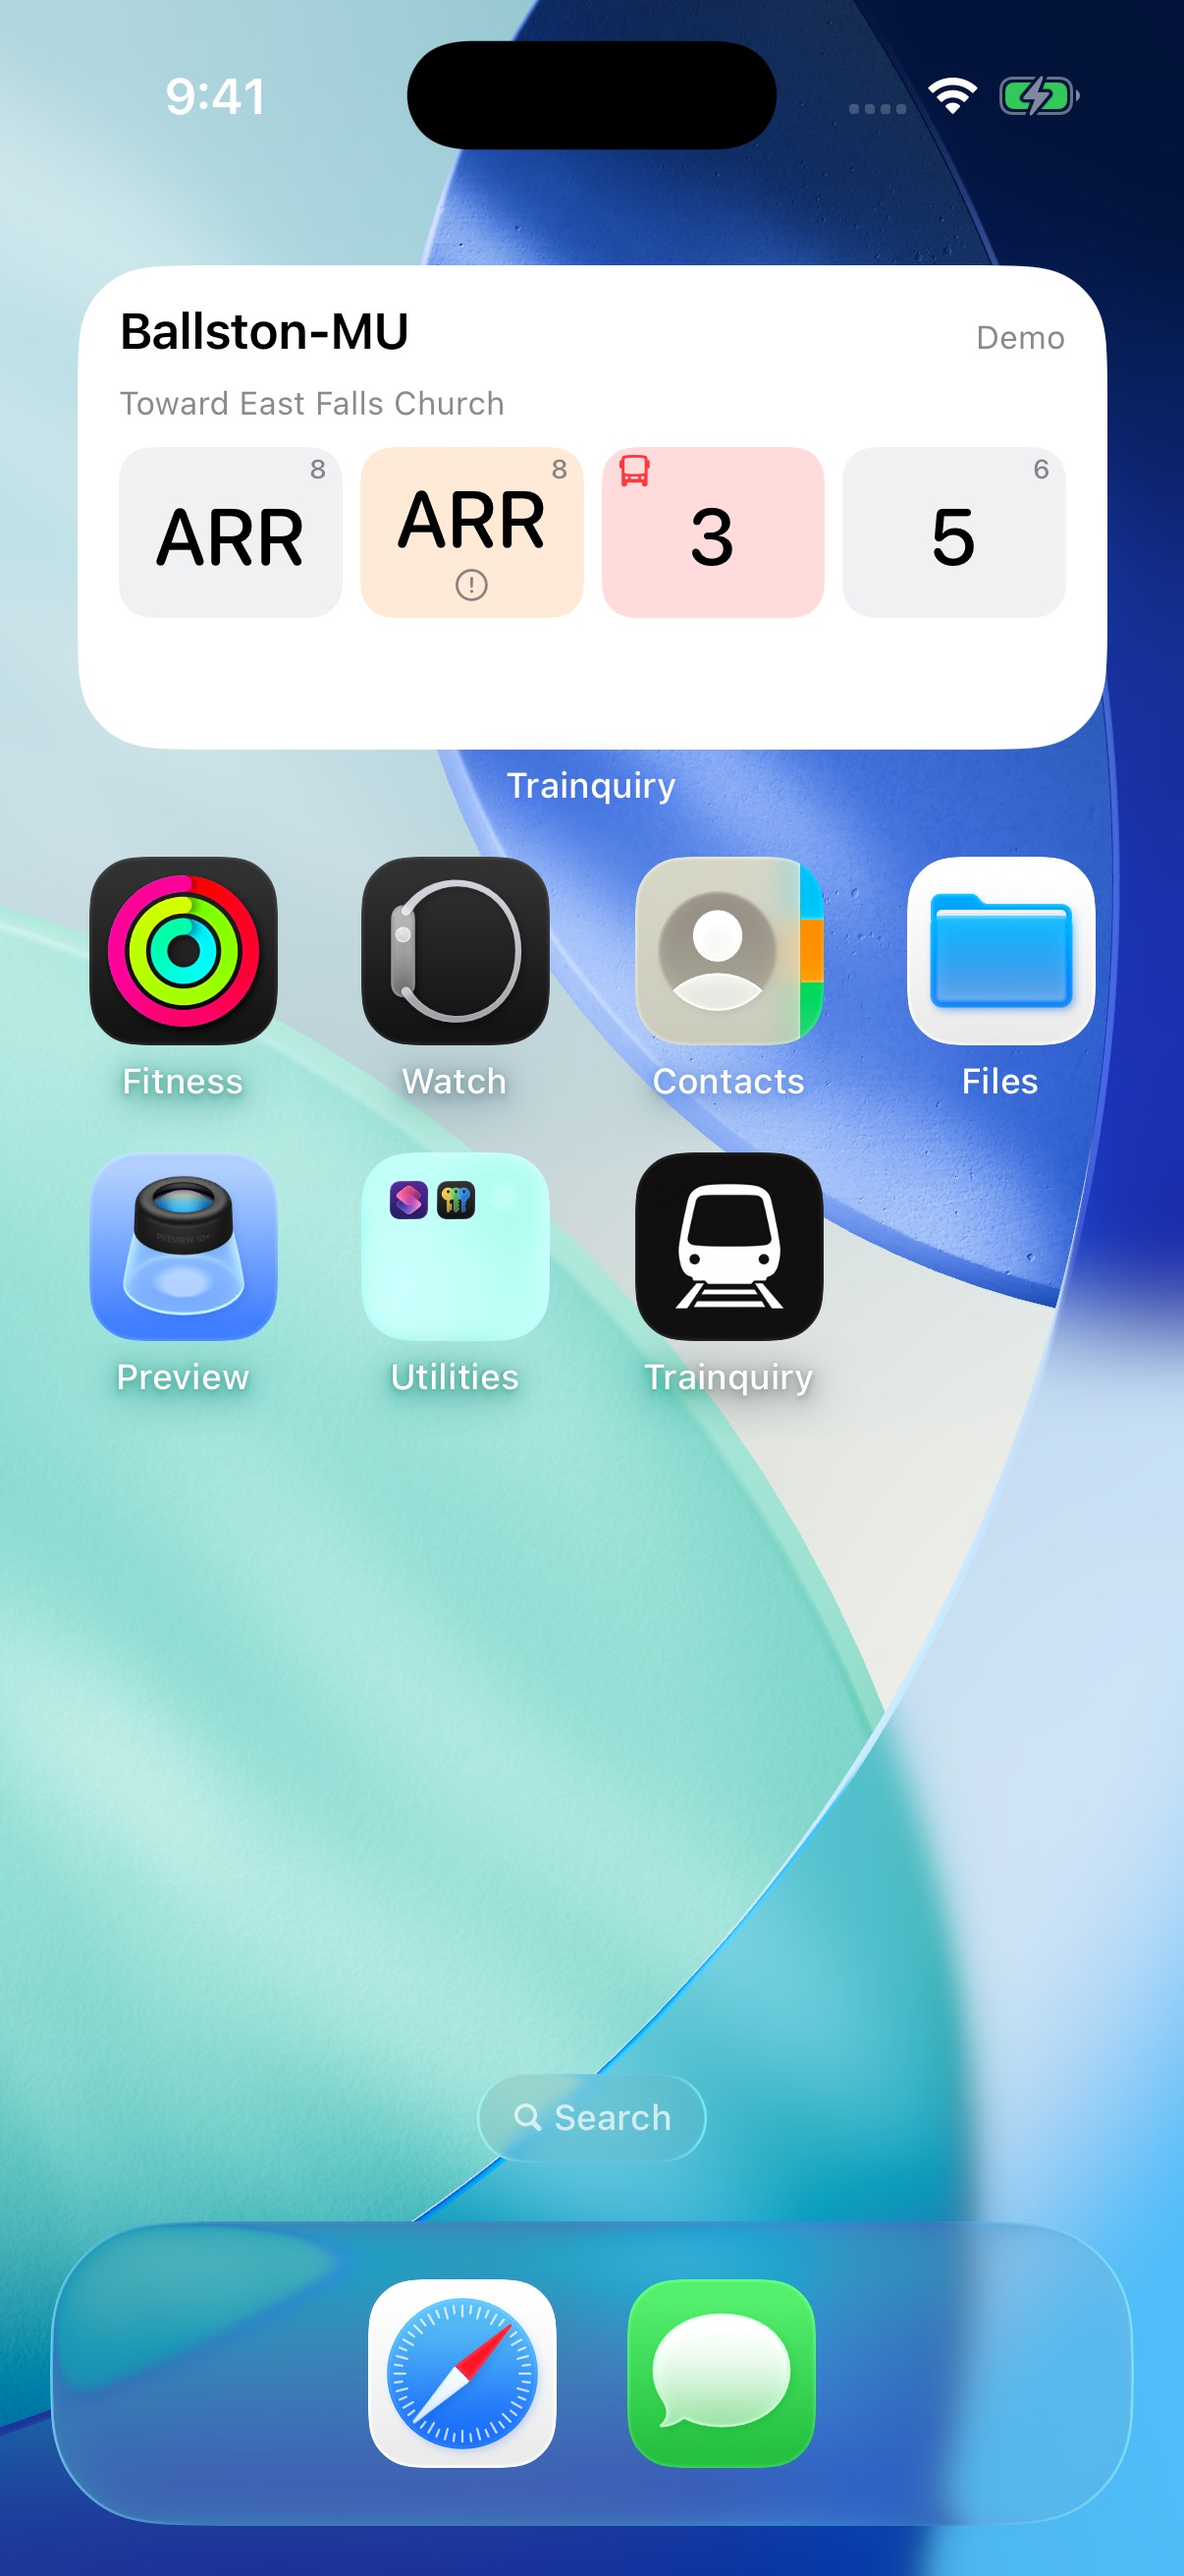
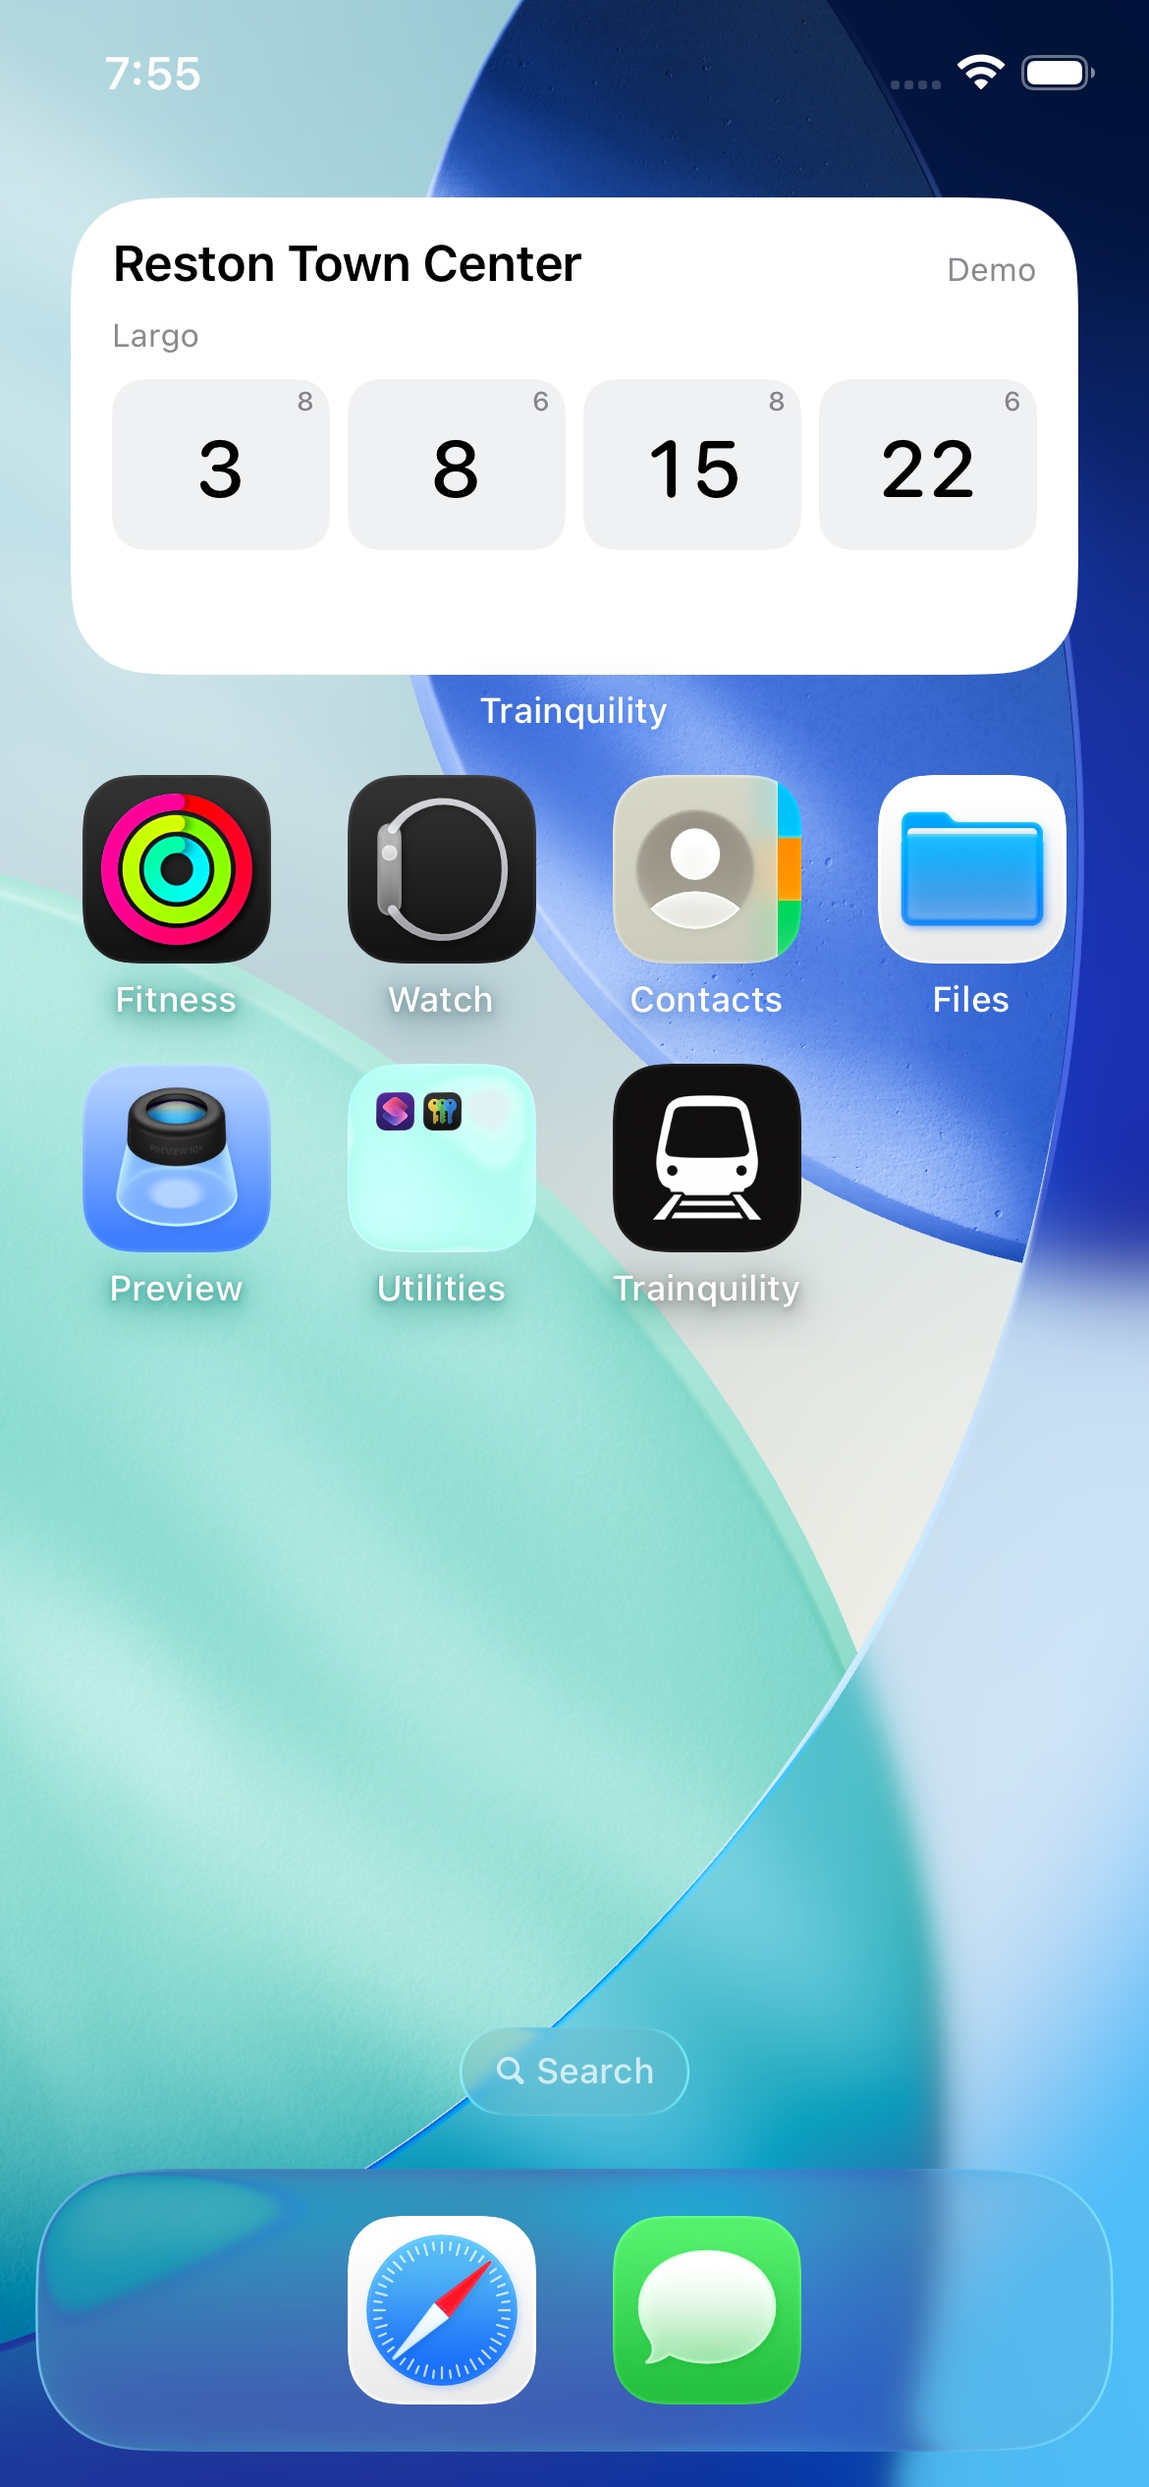
Rename app branding to Trainquility

diff --git a/index.html b/index.html
@@ -3,9 +3,9 @@
 <head>
   <meta charset="utf-8">
   <meta name="viewport" content="width=device-width, initial-scale=1">
-  <meta name="description" content="Trainquiry shows Washington Metro arrivals on your Home Screen, Lock Screen, and Apple Watch.">
+  <meta name="description" content="Trainquility shows Washington Metro arrivals on your Home Screen, Lock Screen, and Apple Watch.">
   <meta name="theme-color" content="#f8f8f6">
-  <title>Trainquiry | Washington Metro arrivals</title>
+  <title>Trainquility | Washington Metro arrivals</title>
   <link rel="icon" type="image/png" href="assets/app-icon.png">
   <link rel="stylesheet" href="style.css">
   <script src="config.js" defer></script>
@@ -15,12 +15,12 @@
   <div class="page">
     <main class="intro">
       <img class="app-icon" src="assets/app-icon.png" alt="" width="64" height="64">
-      <h1>Trainquiry</h1>
+      <h1>Trainquility</h1>
       <p class="description">Washington Metro arrivals on your Home Screen, Lock Screen, and Apple Watch.</p>
 
       <figure class="preview">
         <div class="phone-preview">
-          <img src="assets/widget-home-screen.jpg" alt="Trainquiry widget on an iPhone Home Screen." width="1206" height="2622">
+          <img src="assets/widget-home-screen.jpg" alt="Trainquility widget showing sample arrivals on an iPhone Home Screen." width="1170" height="2532">
         </div>
       </figure>
 
@@ -36,14 +36,14 @@
         <summary>Privacy</summary>
         <article class="privacy-copy" aria-labelledby="policy-heading">
           <h2 id="policy-heading">Privacy policy</h2>
-          <p class="policy-date">Last updated November 19, 2026</p>
-          <p>This policy covers Trainquiry's iPhone app, widgets, Apple Watch app and complications, and this website.</p>
+          <p class="policy-date">Last updated November 21, 2026</p>
+          <p>This policy covers Trainquility's iPhone app, widgets, Apple Watch app and complications, and this website.</p>
 
           <h3>Data on your devices</h3>
-          <p>Trainquiry stores your Favorites, Home and Work stations, directions, line filters, preferences, and transit data on your devices. The app does not send your saved stations or location to us. It has no advertising, analytics, or third-party crash-reporting SDKs. We do not sell your personal information or track you across other apps and websites.</p>
+          <p>Trainquility stores your Favorites, Home and Work stations, directions, line filters, preferences, and transit data on your devices. The app does not send your saved stations or location to us. It has no advertising, analytics, or third-party crash-reporting SDKs. We do not sell your personal information or track you across other apps and websites.</p>
 
           <h3>Optional location</h3>
-          <p>With your permission, Trainquiry uses your location to sort Favorites by distance and choose a nearby station for Anywhere. Routes and arrival filters are calculated on your iPhone. Always permission allows background location updates for Anywhere widgets. Only the latest location, accuracy, and timestamp are saved; no location history is kept, and coordinates are not sent to us or WMATA.</p>
+          <p>With your permission, Trainquility uses your location to sort Favorites by distance and choose a nearby station for Anywhere. Routes and arrival filters are calculated on your iPhone. Always permission allows background location updates for Anywhere widgets. Only the latest location, accuracy, and timestamp are saved; no location history is kept, and coordinates are not sent to us or WMATA.</p>
           <p>Locations older than six hours are not used. Turning off Use my location in the app's Settings stops monitoring and deletes the saved location. You can also revoke permission in iPhone Settings. Fixed Favorites work without location access.</p>
 
           <h3>Transit data and Apple Watch</h3>
@@ -59,7 +59,7 @@
         </article>
       </details>
     </footer>
-    <p class="independent">Data from WMATA. Trainquiry is not affiliated with or endorsed by WMATA.</p>
+    <p class="independent">Data from WMATA. Trainquility is not affiliated with or endorsed by WMATA.</p>
   </div>
 </body>
 </html>

diff --git a/README.md b/README.md
@@ -1,6 +1,6 @@
-# Trainquiry website
+# Trainquility website
 
-Static app, support and privacy page for Trainquiry. It contains public website files only: no native app source, WMATA credentials, analytics or backend service. The widget image shows sample arrivals.
+Static app, support and privacy page for Trainquility. It contains public website files only: no native app source, WMATA credentials, analytics or backend service. The widget image shows sample arrivals.
 
 ## GitHub Pages
 
